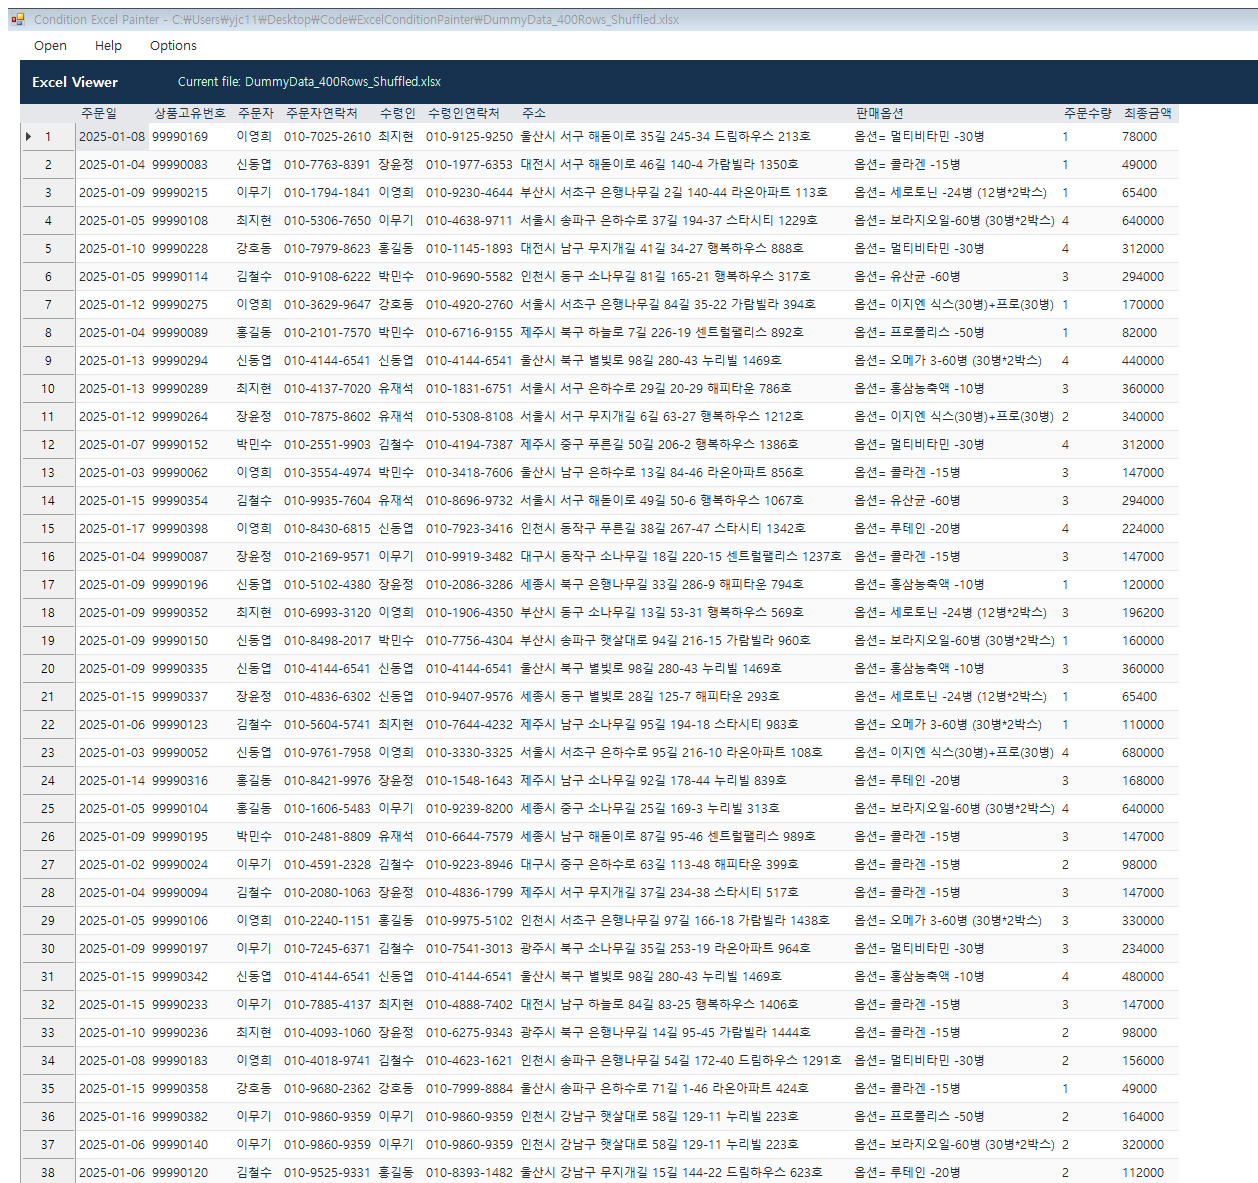
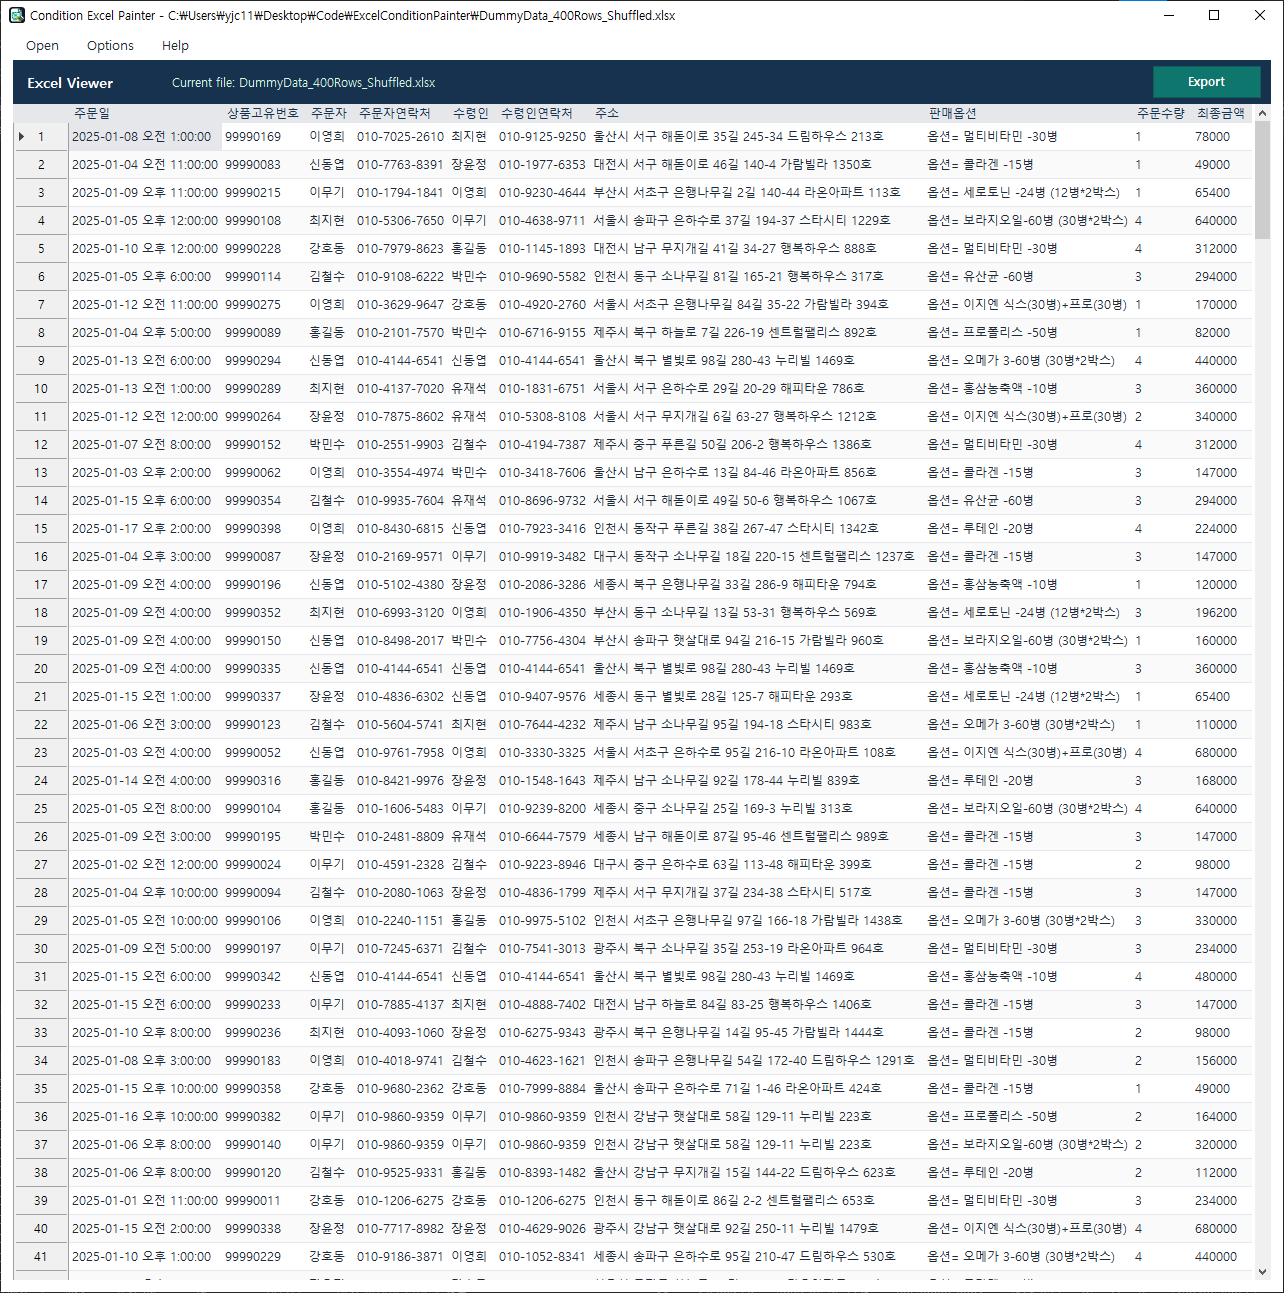
Add ExcelConditionPainter downloads section

Changed region(s): [[0.0, 0.0, 1.0, 1.0], [0.9921, 0.9738, 1.0, 1.0]]

diff --git a/src/App.tsx b/src/App.tsx
@@ -436,6 +436,18 @@ function PortfolioHome({
 function ExcelConditionPainterProjectPage({ onNavigate }: { onNavigate: InternalNavigate }) {
   const project: Project | undefined = projects.find((item) => item.detailPath === excelConditionPainterPath);
   const assetPath = '/assets/excel-condition-painter';
+  const repositoryLink = project?.links.find((link) => link.label === 'Repository');
+  const downloadLinks = project?.links.filter((link) => link.label !== 'Repository') ?? [];
+  const downloadDescriptions: Record<string, { title: string; description: string }> = {
+    'Sample Data': {
+      title: 'Sample Data',
+      description: '가이드 화면과 같은 흐름으로 테스트해볼 수 있는 주문 데이터 샘플 파일입니다.',
+    },
+    'Release Download': {
+      title: 'Setup',
+      description: 'GitHub Releases에서 Windows 실행 파일 또는 설치 패키지를 받을 수 있습니다.',
+    },
+  };
 
   return (
     <div className="site-shell">
@@ -455,14 +467,12 @@ function ExcelConditionPainterProjectPage({ onNavigate }: { onNavigate: Internal
                 <span key={tech}>{tech}</span>
               ))}
             </div>
-            {project?.links ? (
+            {repositoryLink ? (
               <div className="project-detail-actions">
-                {project.links.map((link) => (
-                  <a key={link.label} className="button primary" href={link.href} target="_blank" rel="noreferrer">
-                    {link.label}
-                    <ArrowUpRight size={17} aria-hidden="true" />
-                  </a>
-                ))}
+                <a className="button primary" href={repositoryLink.href} target="_blank" rel="noreferrer">
+                  {repositoryLink.label}
+                  <ArrowUpRight size={17} aria-hidden="true" />
+                </a>
               </div>
             ) : null}
           </div>
@@ -471,13 +481,43 @@ function ExcelConditionPainterProjectPage({ onNavigate }: { onNavigate: Internal
           </figure>
         </section>
 
+        {downloadLinks.length > 0 ? (
+          <section className="project-download-section" aria-labelledby="excel-download-title">
+            <div className="project-download-copy">
+              <p className="section-kicker">Downloads</p>
+              <h2 id="excel-download-title">샘플 데이터와 실행 파일</h2>
+              <p>가이드 내용을 직접 따라 해볼 수 있는 샘플 파일과 배포 버전을 함께 확인할 수 있습니다.</p>
+            </div>
+            <div className="project-download-grid">
+              {downloadLinks.map((link) => {
+                const detail = downloadDescriptions[link.label] ?? {
+                  title: link.label,
+                  description: '프로젝트에서 제공하는 관련 파일입니다.',
+                };
+
+                return (
+                  <article className="project-download-card" key={link.label}>
+                    <h3>{detail.title}</h3>
+                    <p>{detail.description}</p>
+                    <a className="button secondary" href={link.href} target="_blank" rel="noreferrer">
+                      Download
+                      <ArrowUpRight size={16} aria-hidden="true" />
+                    </a>
+                  </article>
+                );
+              })}
+            </div>
+          </section>
+        ) : null}
+
         <article className="project-guide" aria-labelledby="excel-guide-title">
           <header className="project-guide-header">
             <p className="section-kicker">Usage Flow</p>
             <h2 id="excel-guide-title">ExcelConditionPainter 사용 가이드</h2>
             <p>
-              예시는 <code>DummyData_400Rows_Shuffled.xlsx</code> 기준입니다. 파일을 열고 조건을 설정한 뒤
-              검색과 Export까지 이어지는 흐름을 정리했습니다.
+              예시는 위 <b>Sample Data</b>에서 받을 수 있는 <code>DummyData_400Rows_Shuffled.xlsx</code> 기준입니다.
+              <br />
+              파일을 열고 조건을 설정한 뒤 검색과 Export까지 이어지는 흐름을 정리했습니다.
             </p>
           </header>
 

diff --git a/src/styles.css b/src/styles.css
@@ -713,6 +713,62 @@ main {
   background: #ffffff;
 }
 
+.project-download-section {
+  display: grid;
+  grid-template-columns: minmax(240px, 0.56fr) minmax(0, 1fr);
+  gap: 28px;
+  align-items: start;
+  padding: 44px 0 50px;
+  border-top: 1px solid var(--line);
+}
+
+.project-download-copy h2 {
+  margin: 8px 0 12px;
+  color: var(--ink);
+  font-size: clamp(1.78rem, 2.4vw, 2.2rem);
+  line-height: 1.16;
+}
+
+.project-download-copy p {
+  max-width: 520px;
+  color: var(--muted);
+  line-height: 1.7;
+}
+
+.project-download-grid {
+  display: grid;
+  grid-template-columns: repeat(2, minmax(0, 1fr));
+  gap: 16px;
+}
+
+.project-download-card {
+  display: grid;
+  gap: 12px;
+  min-height: 190px;
+  padding: 22px;
+  border: 1px solid var(--line);
+  border-radius: 8px;
+  background: #ffffff;
+  box-shadow: 0 16px 42px rgb(37 99 235 / 8%);
+}
+
+.project-download-card h3 {
+  margin: 0;
+  color: var(--ink);
+  font-size: 1.26rem;
+}
+
+.project-download-card p {
+  margin: 0;
+  color: var(--muted);
+  line-height: 1.62;
+}
+
+.project-download-card .button {
+  width: fit-content;
+  margin-top: auto;
+}
+
 .project-guide {
   padding-top: 56px;
   border-top: 1px solid var(--line);
@@ -1654,6 +1710,10 @@ main {
     font-size: var(--display-title-tablet);
   }
 
+  .project-download-section {
+    grid-template-columns: 1fr;
+  }
+
   .guide-flow {
     grid-template-columns: repeat(3, minmax(0, 1fr));
   }
@@ -1812,6 +1872,18 @@ main {
 
   .project-detail-hero-media img {
     aspect-ratio: 4 / 3;
+  }
+
+  .project-download-section {
+    padding: 34px 0 40px;
+  }
+
+  .project-download-grid {
+    grid-template-columns: 1fr;
+  }
+
+  .project-download-card .button {
+    width: 100%;
   }
 
   .project-guide {

diff --git a/src/data/portfolio.ts b/src/data/portfolio.ts
@@ -184,6 +184,14 @@ export const projects: Project[] = [
         label: 'Repository',
         href: 'https://github.com/GrownDombo/ExcelConditionPainter',
       },
+      {
+        label: 'Sample Data',
+        href: 'https://github.com/GrownDombo/ExcelConditionPainter/raw/main/DummyData_400Rows_Shuffled.xlsx',
+      },
+      {
+        label: 'Release Download',
+        href: 'https://github.com/GrownDombo/ExcelConditionPainter/releases',
+      },
     ],
     image: '/assets/excel-condition-painter/main-image.png',
     detailPath: '/projects/excel-condition-painter',
